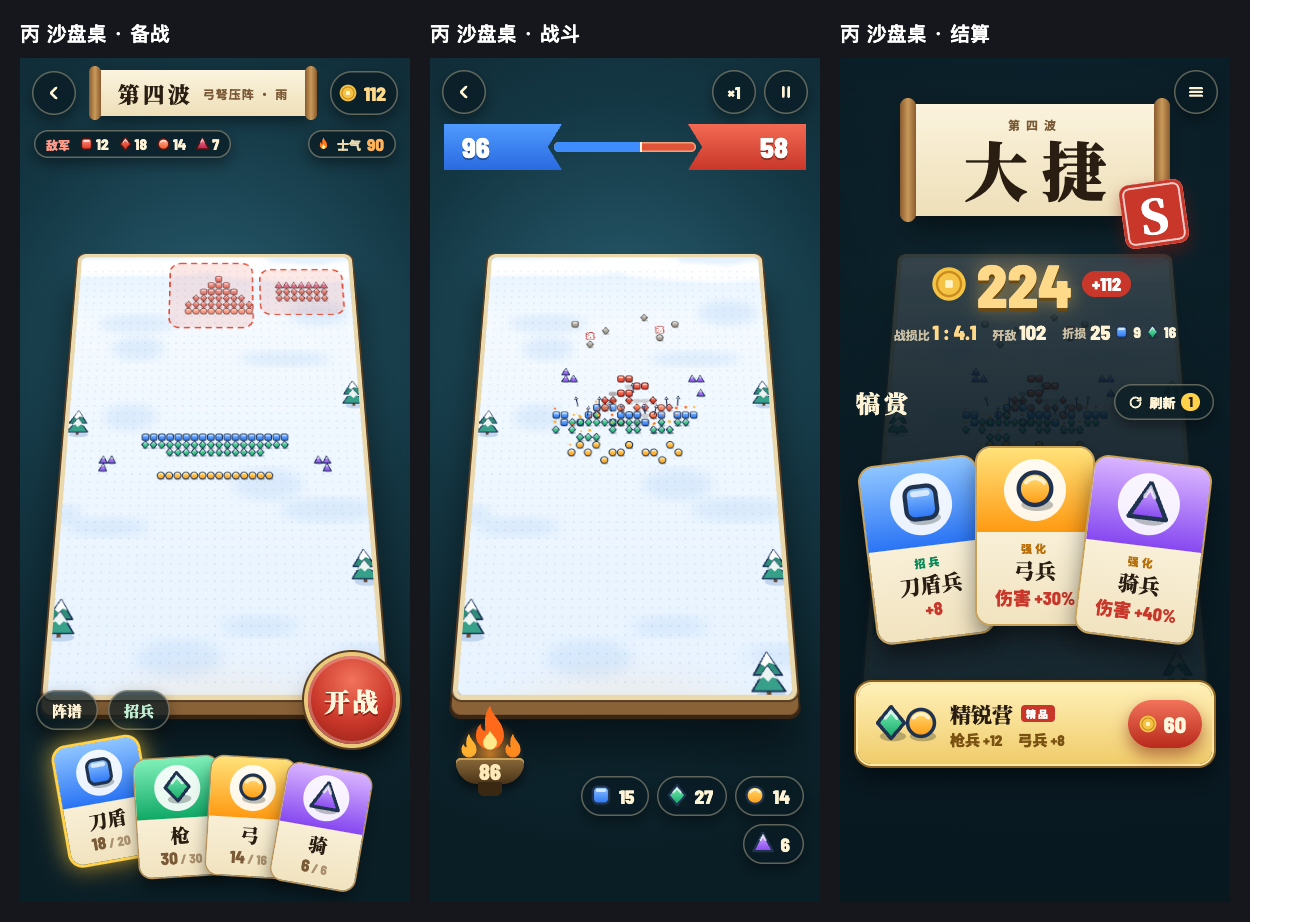
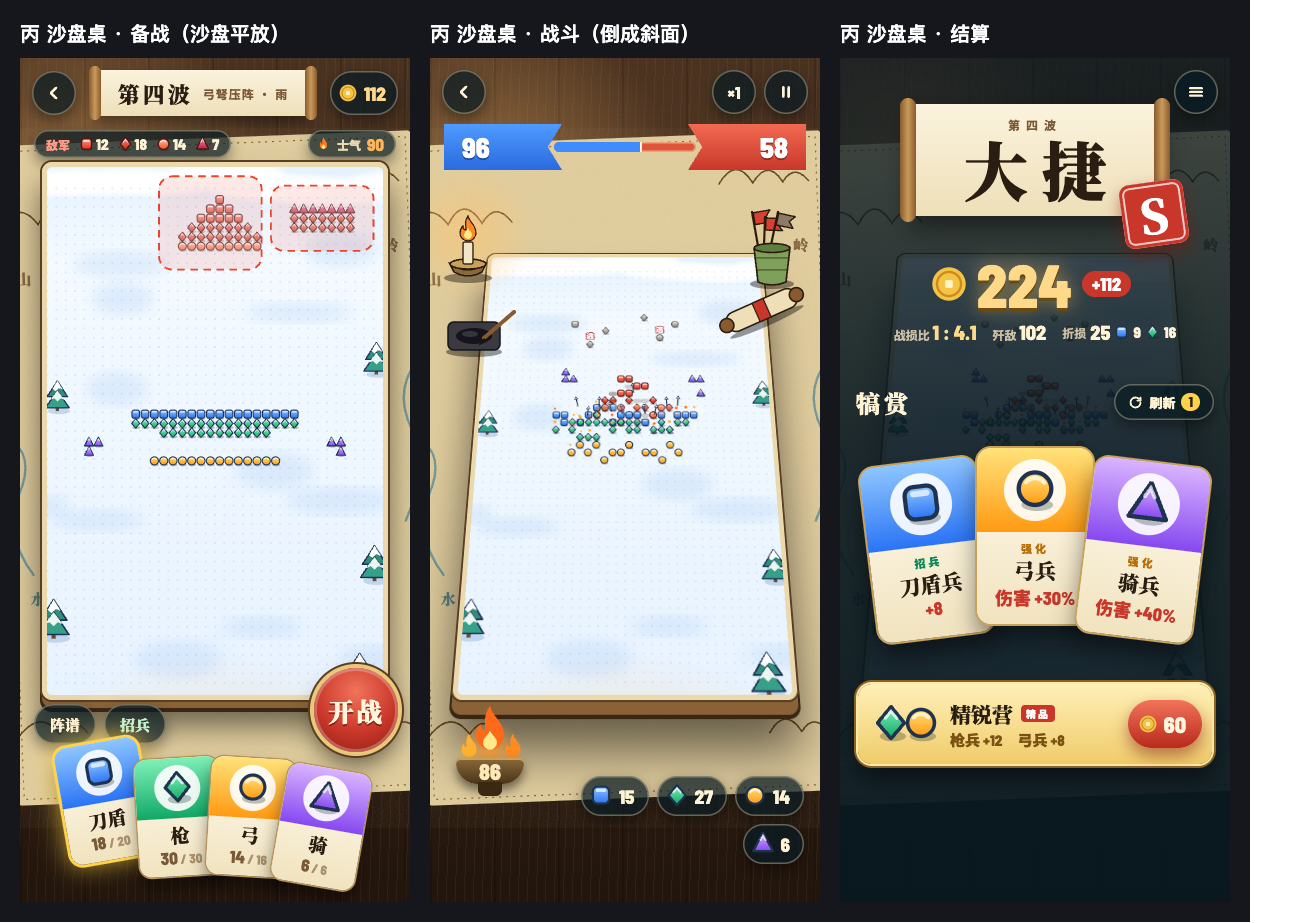
v34：沙盘桌镜头——布阵贴近、开战放倒并拉远，桌面有地图和摆件

Changed region(s): [[0.0, 0.0303, 0.9612, 1.0]]

diff --git a/index.html b/index.html
@@ -62,11 +62,21 @@ b { font-variant-numeric: tabular-nums; font-weight: 700; }
 #intel b { font-weight: 700; color: var(--gold); }
 #intel .mod { display: inline-block; background: var(--red); color: var(--ink); border-radius: 4px; padding: 0 5px; margin: 0 4px 0 6px; font-size: 11px; }
 #intel .new { display: inline-block; background: var(--gold); color: var(--frame); border-radius: 4px; padding: 0 4px; font-size: 10px; font-weight: 700; }
-#stage { position: relative; flex: 1; min-height: 0; display: flex; align-items: center; justify-content: center; perspective: 1100px; perspective-origin: 50% 12%; }
-#cv { display: block; touch-action: none; border-radius: 6px; box-shadow: 0 0 0 3px var(--rim), 0 8px 24px rgba(0,0,0,.5); transform-origin: 50% 100%; transition: transform .7s cubic-bezier(.2,.8,.2,1), box-shadow .7s; }
+#stage { position: relative; flex: 1; min-height: 0; display: flex; align-items: center; justify-content: center; perspective: 1100px; perspective-origin: 50% 12%; overflow: hidden; border-radius: 10px;
+  background: radial-gradient(70% 34% at 12% 10%, rgba(255,190,110,.4), rgba(255,190,110,0) 70%), repeating-linear-gradient(90deg, rgba(0,0,0,.16) 0 2px, rgba(0,0,0,0) 2px 64px), linear-gradient(180deg, #4a3220 0%, #3a2616 50%, #22150c 100%); }
+/* 沙盘桌：桌面上垫一张地图，角上放油灯、令旗、军报、砚台。布阵时镜头贴近沙盘，这些东西在画面外；开战后镜头拉远才看得到 */
+#desk { position: absolute; inset: 0; pointer-events: none; transform: scale(1.22); transform-origin: 50% 62%; transition: transform .9s cubic-bezier(.3,.7,.2,1); }
+#stage.tilt #desk { transform: none; }
+#desk .prop { position: absolute; opacity: 0; transition: opacity .5s .3s; }
+#stage.tilt #desk .prop { opacity: 1; }
+#desk .prop > div, #desk .prop > svg { position: relative; display: block; }
+#desk .p-lamp { left: 5%; top: 4%; } #desk .p-ink { left: 3%; top: 17%; } #desk .p-flags { right: 5%; top: 3%; } #desk .p-roll { right: 20%; top: 15%; }
+@keyframes lampflick { 0% { opacity: .85; transform: scale(1); } 100% { opacity: 1; transform: scale(1.08); } }
+#desk .p-lamp > div > div { animation: lampflick .7s ease-in-out infinite alternate; }
+#cv { position: relative; z-index: 1; display: block; touch-action: none; border-radius: 6px; box-shadow: 0 0 0 3px var(--rim), 0 8px 24px rgba(0,0,0,.5); transform-origin: 50% 100%; transition: transform .9s cubic-bezier(.3,.7,.2,1), box-shadow .9s; }
 /* 布阵时沙盘是平的（手指画得准）；开战后倒成斜面，像低头看桌上的沙盘。打完回到备战再放平 */
-#stage.tilt #cv { transform: rotateX(30deg); box-shadow: 0 0 0 3px var(--rim), 0 12px 0 3px #5a3e22, 0 14px 0 5px #2a1c10, 0 44px 40px rgba(0,0,0,.6); }
-@media (prefers-reduced-motion: reduce) { #cv { transition: none; } }
+#stage.tilt #cv { transform: translateY(-1.5%) scale(.8) rotateX(32deg); box-shadow: 0 0 0 3px var(--rim), 0 12px 0 3px #5a3e22, 0 14px 0 5px #2a1c10, 0 44px 40px rgba(0,0,0,.6); }
+@media (prefers-reduced-motion: reduce) { #cv, #desk, #desk .prop { transition: none; } #desk .p-lamp > div > div { animation: none; } }
 
 footer { display: flex; flex-direction: column; gap: 6px; }
 .inkrow { display: flex; align-items: center; gap: 8px; font-size: 13px; color: var(--dim); }
@@ -158,6 +168,15 @@ footer { display: flex; flex-direction: column; gap: 6px; }
   </div>
   <div id="intel" hidden></div>
   <div id="stage">
+<div id="desk" aria-hidden="true"><svg viewBox="0 0 390 700" preserveAspectRatio="xMidYMid slice" style="position:absolute;left:3%;top:2.5%;width:94%;height:95%" aria-hidden="true"><defs><filter id="mp"><feTurbulence type="fractalNoise" baseFrequency=".8" numOctaves="2" seed="7"/><feColorMatrix values="0 0 0 0 .45  0 0 0 0 .32  0 0 0 0 .16  0 0 0 .2 -.05"/></filter></defs>
+<g transform="rotate(-2.2 195 350)"><rect x="-14" y="10" width="418" height="660" rx="4" fill="#E2CFA0"/><rect x="-14" y="10" width="418" height="660" rx="4" filter="url(#mp)"/><rect x="-8" y="16" width="406" height="648" fill="none" stroke="#8A6A3A" stroke-width="1.2" stroke-dasharray="2 5"/>
+<path d="M-10 90 q20 -26 38 0 q16 -30 34 0 q14 -22 30 0 M300 60 q18 -28 34 0 q16 -24 30 0 q12 -18 26 0 M-10 600 q22 -26 40 0 q14 -20 28 0 M330 610 q16 -26 32 0 q12 -18 26 0" fill="none" stroke="#6A4A26" stroke-width="1.6" stroke-linecap="round"/>
+<path d="M-12 300 q30 20 10 60 q-16 40 12 80 M402 240 q-26 30 -8 70 q14 40 -10 90" fill="none" stroke="#5E8E96" stroke-width="2.4" stroke-linecap="round" opacity=".8"/>
+<text x="4" y="150" font-family="Noto Serif SC,serif" font-weight="900" font-size="15" fill="#6A4A26" opacity=".75">山</text><text x="372" y="130" font-family="Noto Serif SC,serif" font-weight="900" font-size="15" fill="#6A4A26" opacity=".75">岭</text><text x="6" y="470" font-family="Noto Serif SC,serif" font-weight="900" font-size="15" fill="#3E6E78" opacity=".8">水</text></g></svg>
+      <div class="prop p-lamp"><div style="width:60px;height:76px" aria-hidden="true">
+    <div style="position:absolute;left:-40px;top:-46px;width:140px;height:140px;border-radius:50%;background:radial-gradient(circle,rgba(255,196,110,.55),rgba(255,170,80,0) 68%)"></div>
+    <svg width="60" height="76" viewBox="0 0 60 76" style="position:absolute;left:0;top:0"><ellipse cx="30" cy="70" rx="24" ry="5" fill="rgba(0,0,0,.4)"/><path d="M12 56 Q30 68 48 56 L44 64 Q30 72 16 64 Z" fill="#8A6A3A" stroke="#2A1A0C" stroke-width="1.6"/><ellipse cx="30" cy="56" rx="18" ry="5" fill="#C9A25A" stroke="#2A1A0C" stroke-width="1.6"/><rect x="25" y="34" width="10" height="22" rx="2" fill="#F2E6C8" stroke="#2A1A0C" stroke-width="1.4"/><path d="M30 8c2 7 8 9 8 17a8 8 0 0 1-16 0c0-4 2-6 3-7 0 3 1 4 3 4 0-5-2-8 2-14z" fill="#FF8A1F" stroke="#2A1A0C" stroke-width="1.2"/><path d="M30 20c1 3 4 4 4 7a4 4 0 0 1-8 0c0-3 3-4 4-7z" fill="#FFE98A"/></svg></div></div><div class="prop p-ink"><svg width="74" height="50" viewBox="0 0 74 50" style="" aria-hidden="true"><ellipse cx="30" cy="44" rx="28" ry="5" fill="rgba(0,0,0,.4)"/><rect x="4" y="14" width="52" height="28" rx="6" fill="#3A3A40" stroke="#14141A" stroke-width="1.6"/><ellipse cx="30" cy="28" rx="18" ry="8" fill="#14141A"/><ellipse cx="26" cy="26" rx="8" ry="3" fill="#4A4A55" opacity=".6"/><path d="M40 30 L70 4" stroke="#8A5A2E" stroke-width="4" stroke-linecap="round"/><path d="M40 30 L34 38 L44 33 Z" fill="#14141A"/></svg></div><div class="prop p-flags"><div aria-hidden="true" style="width:70px;height:84px"><svg width="70" height="84" viewBox="0 0 70 84"><ellipse cx="34" cy="78" rx="22" ry="5" fill="rgba(0,0,0,.4)"/><g transform="translate(14,6) rotate(-10)"><path d="M0 0V40" stroke="#2A1A0C" stroke-width="2.2" stroke-linecap="round"/><path d="M1 1h17l-5 6 5 6H1z" fill="#D8402F" stroke="#2A1A0C" stroke-width="1.4" stroke-linejoin="round"/></g><g transform="translate(27,11) rotate(2)"><path d="M0 0V40" stroke="#2A1A0C" stroke-width="2.2" stroke-linecap="round"/><path d="M1 1h17l-5 6 5 6H1z" fill="#D8402F" stroke="#2A1A0C" stroke-width="1.4" stroke-linejoin="round"/></g><g transform="translate(40,6) rotate(12)"><path d="M0 0V40" stroke="#2A1A0C" stroke-width="2.2" stroke-linecap="round"/><path d="M1 1h17l-5 6 5 6H1z" fill="#D8402F" stroke="#2A1A0C" stroke-width="1.4" stroke-linejoin="round"/></g><path d="M16 42 H52 L48 76 Q34 82 20 76 Z" fill="#7FA05A" stroke="#2A1A0C" stroke-width="1.6"/><path d="M17 52 H51 M19 64 H49" stroke="#2A1A0C" stroke-width="1.2" opacity=".6"/><ellipse cx="34" cy="42" rx="18" ry="4.5" fill="#5E7E40" stroke="#2A1A0C" stroke-width="1.6"/></svg></div></div><div class="prop p-roll"><svg width="92" height="34" viewBox="0 0 92 34" style="transform:rotate(-24deg)" aria-hidden="true"><ellipse cx="46" cy="29" rx="40" ry="4" fill="rgba(0,0,0,.4)"/><rect x="8" y="6" width="76" height="20" rx="10" fill="#EEDFB8" stroke="#2A1A0C" stroke-width="1.6"/><rect x="40" y="6" width="12" height="20" fill="#C9372A" stroke="#2A1A0C" stroke-width="1.2"/><circle cx="8" cy="16" r="7" fill="#8A5A2E" stroke="#2A1A0C" stroke-width="1.6"/><circle cx="84" cy="16" r="7" fill="#8A5A2E" stroke="#2A1A0C" stroke-width="1.6"/></svg></div>
+    </div>
     <canvas id="cv"></canvas>
     <div id="ov" class="ov"></div>
   </div>

diff --git a/docs/PRD.md b/docs/PRD.md
@@ -270,3 +270,4 @@
 | 11-16 | 战斗中点返回要先弹确认；界面必须支持黑夜模式 |
 | 11-16 | 己方逃兵太多：原因是「评级差 → 下一波士气低 → 更容易溃逃 → 评级更差」的循环。调松士气（v31）：C、D 的开局士气提到 75、70；身边有人倒下 −8 改 −5；被逃兵带慌每秒 −4 改 −2；脱离接触 2 秒就能重新站住。机器人两局里我方溃逃从每波十几次降到 0～1 次，可能调得偏松，待试玩 |
 | 11-17 | 界面从零重做了三版（悬浮岛、漫画贴纸、沙盘桌），排序：沙盘桌 > 悬浮岛 > 漫画贴纸。沙盘桌的做法定为：**布阵时沙盘是平面，开战后倒成斜面**，这样画兵不受透视影响。游戏里已加上这个转场（v33）试效果 |
+| 11-17 | 沙盘桌的镜头：布阵时镜头贴近沙盘（沙盘平放、放大，只露出一点桌面）；开战时沙盘放倒、镜头拉远，桌上的地图、油灯、令旗筒、军报、砚台进到画面里，过程约 0.9 秒。已做进游戏（v34）。摆件里令旗筒以后显示号令次数，军报以后点开看敌情 |
